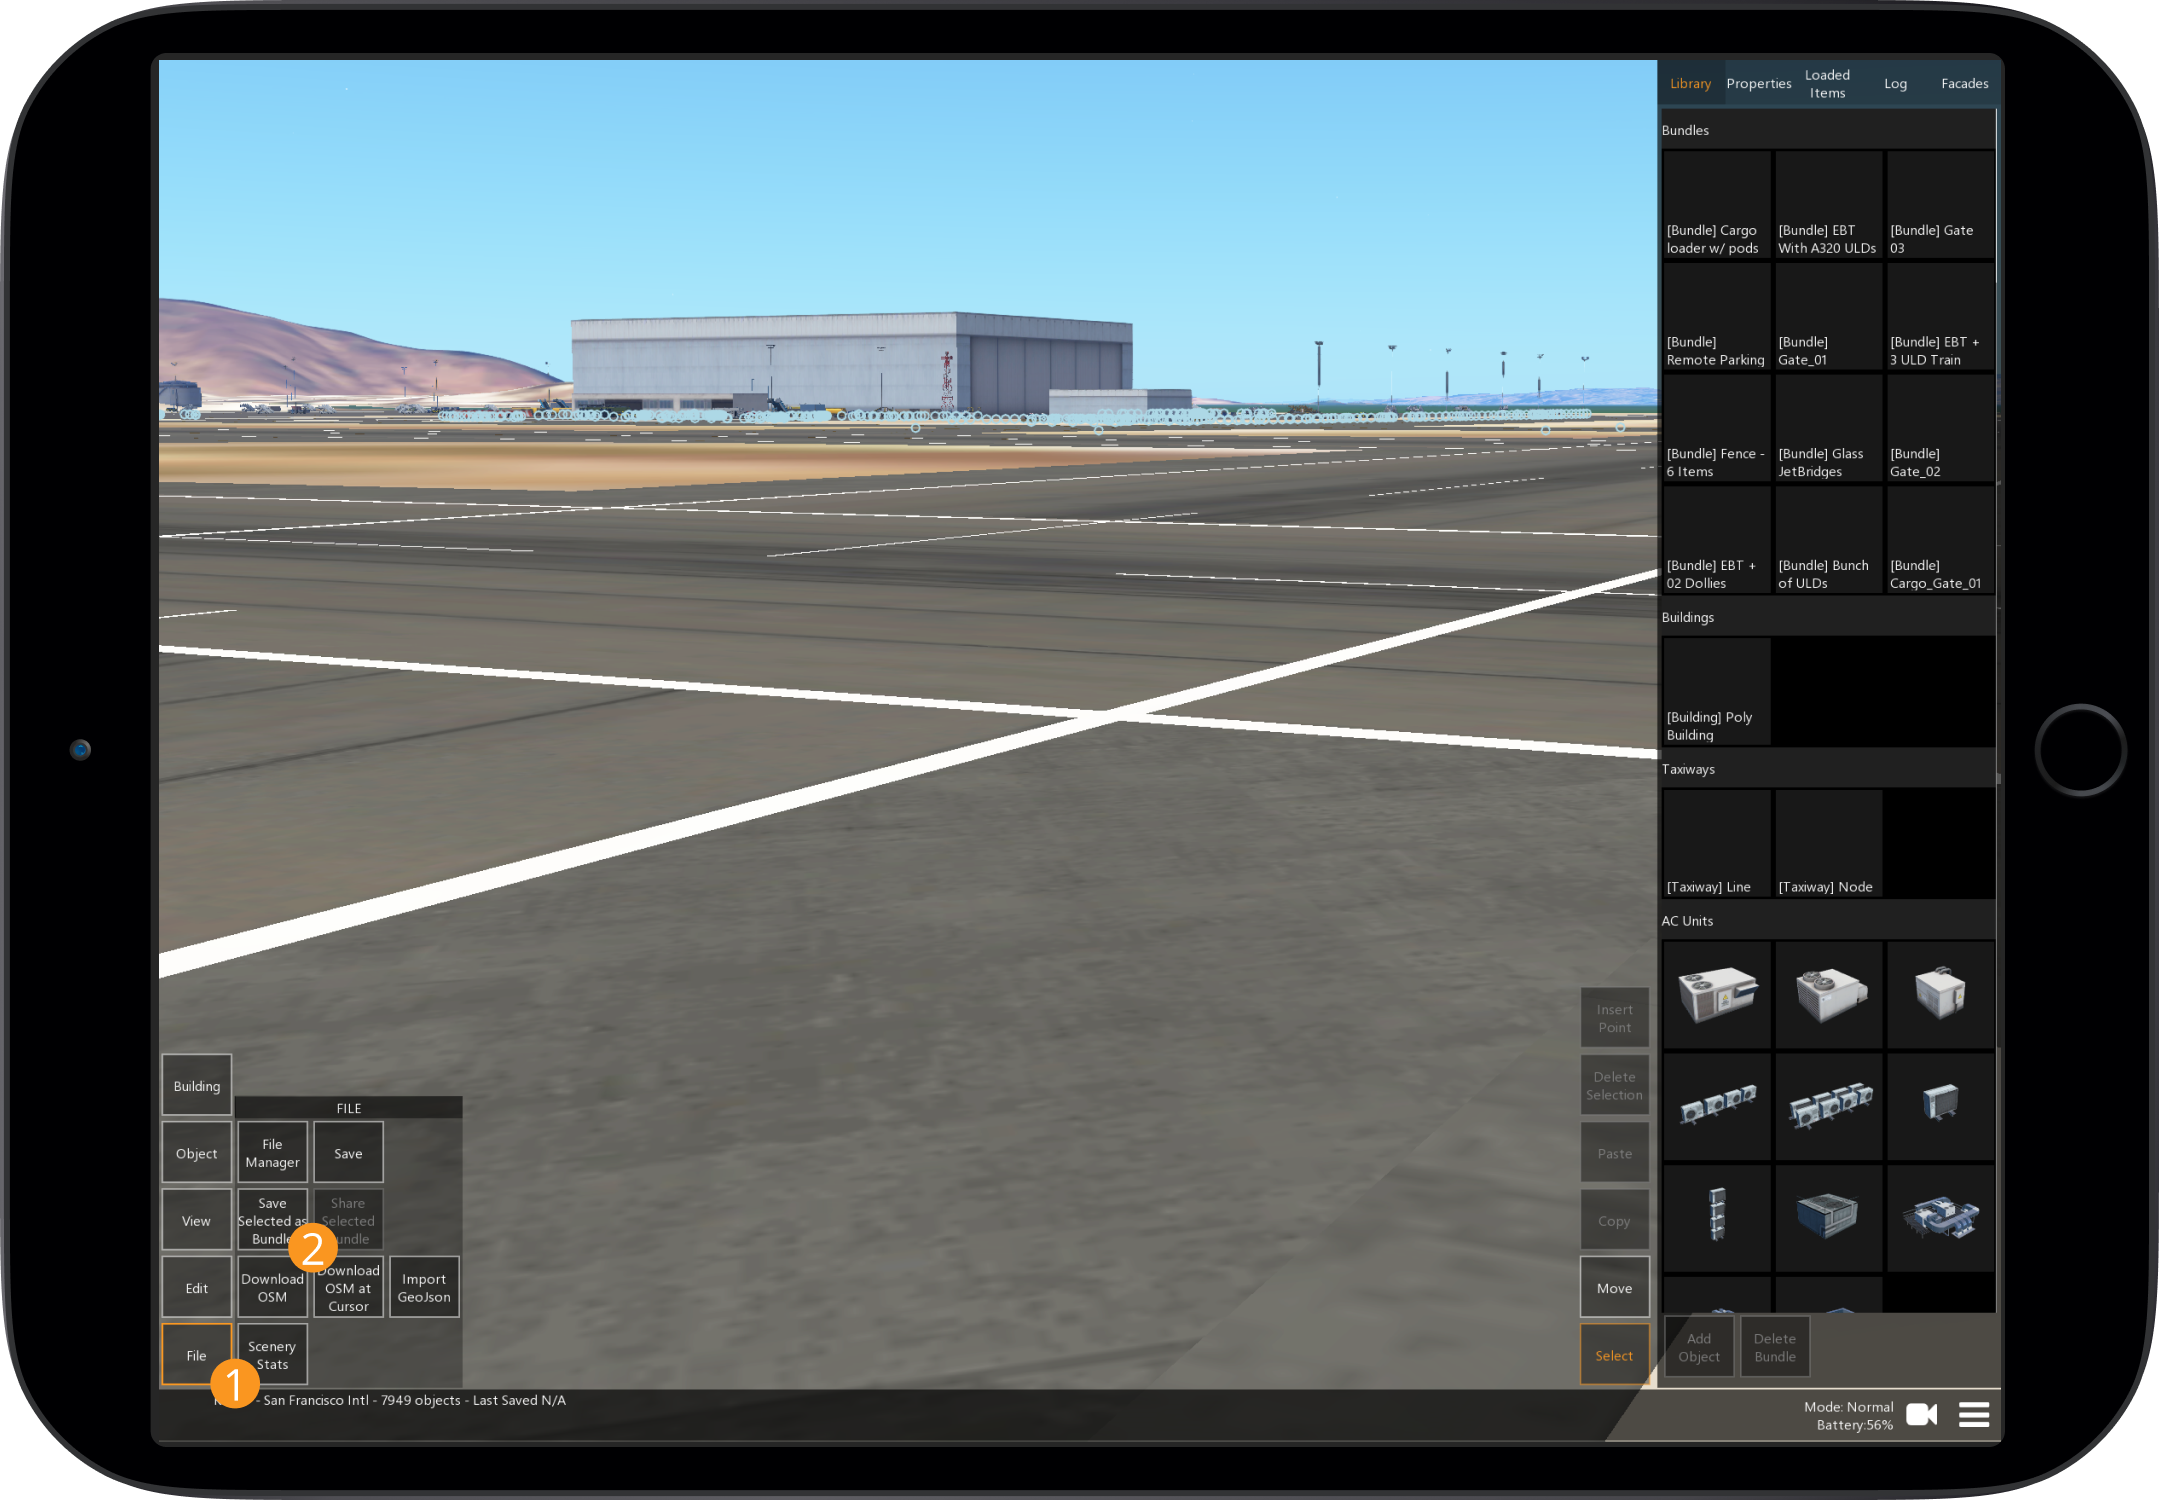
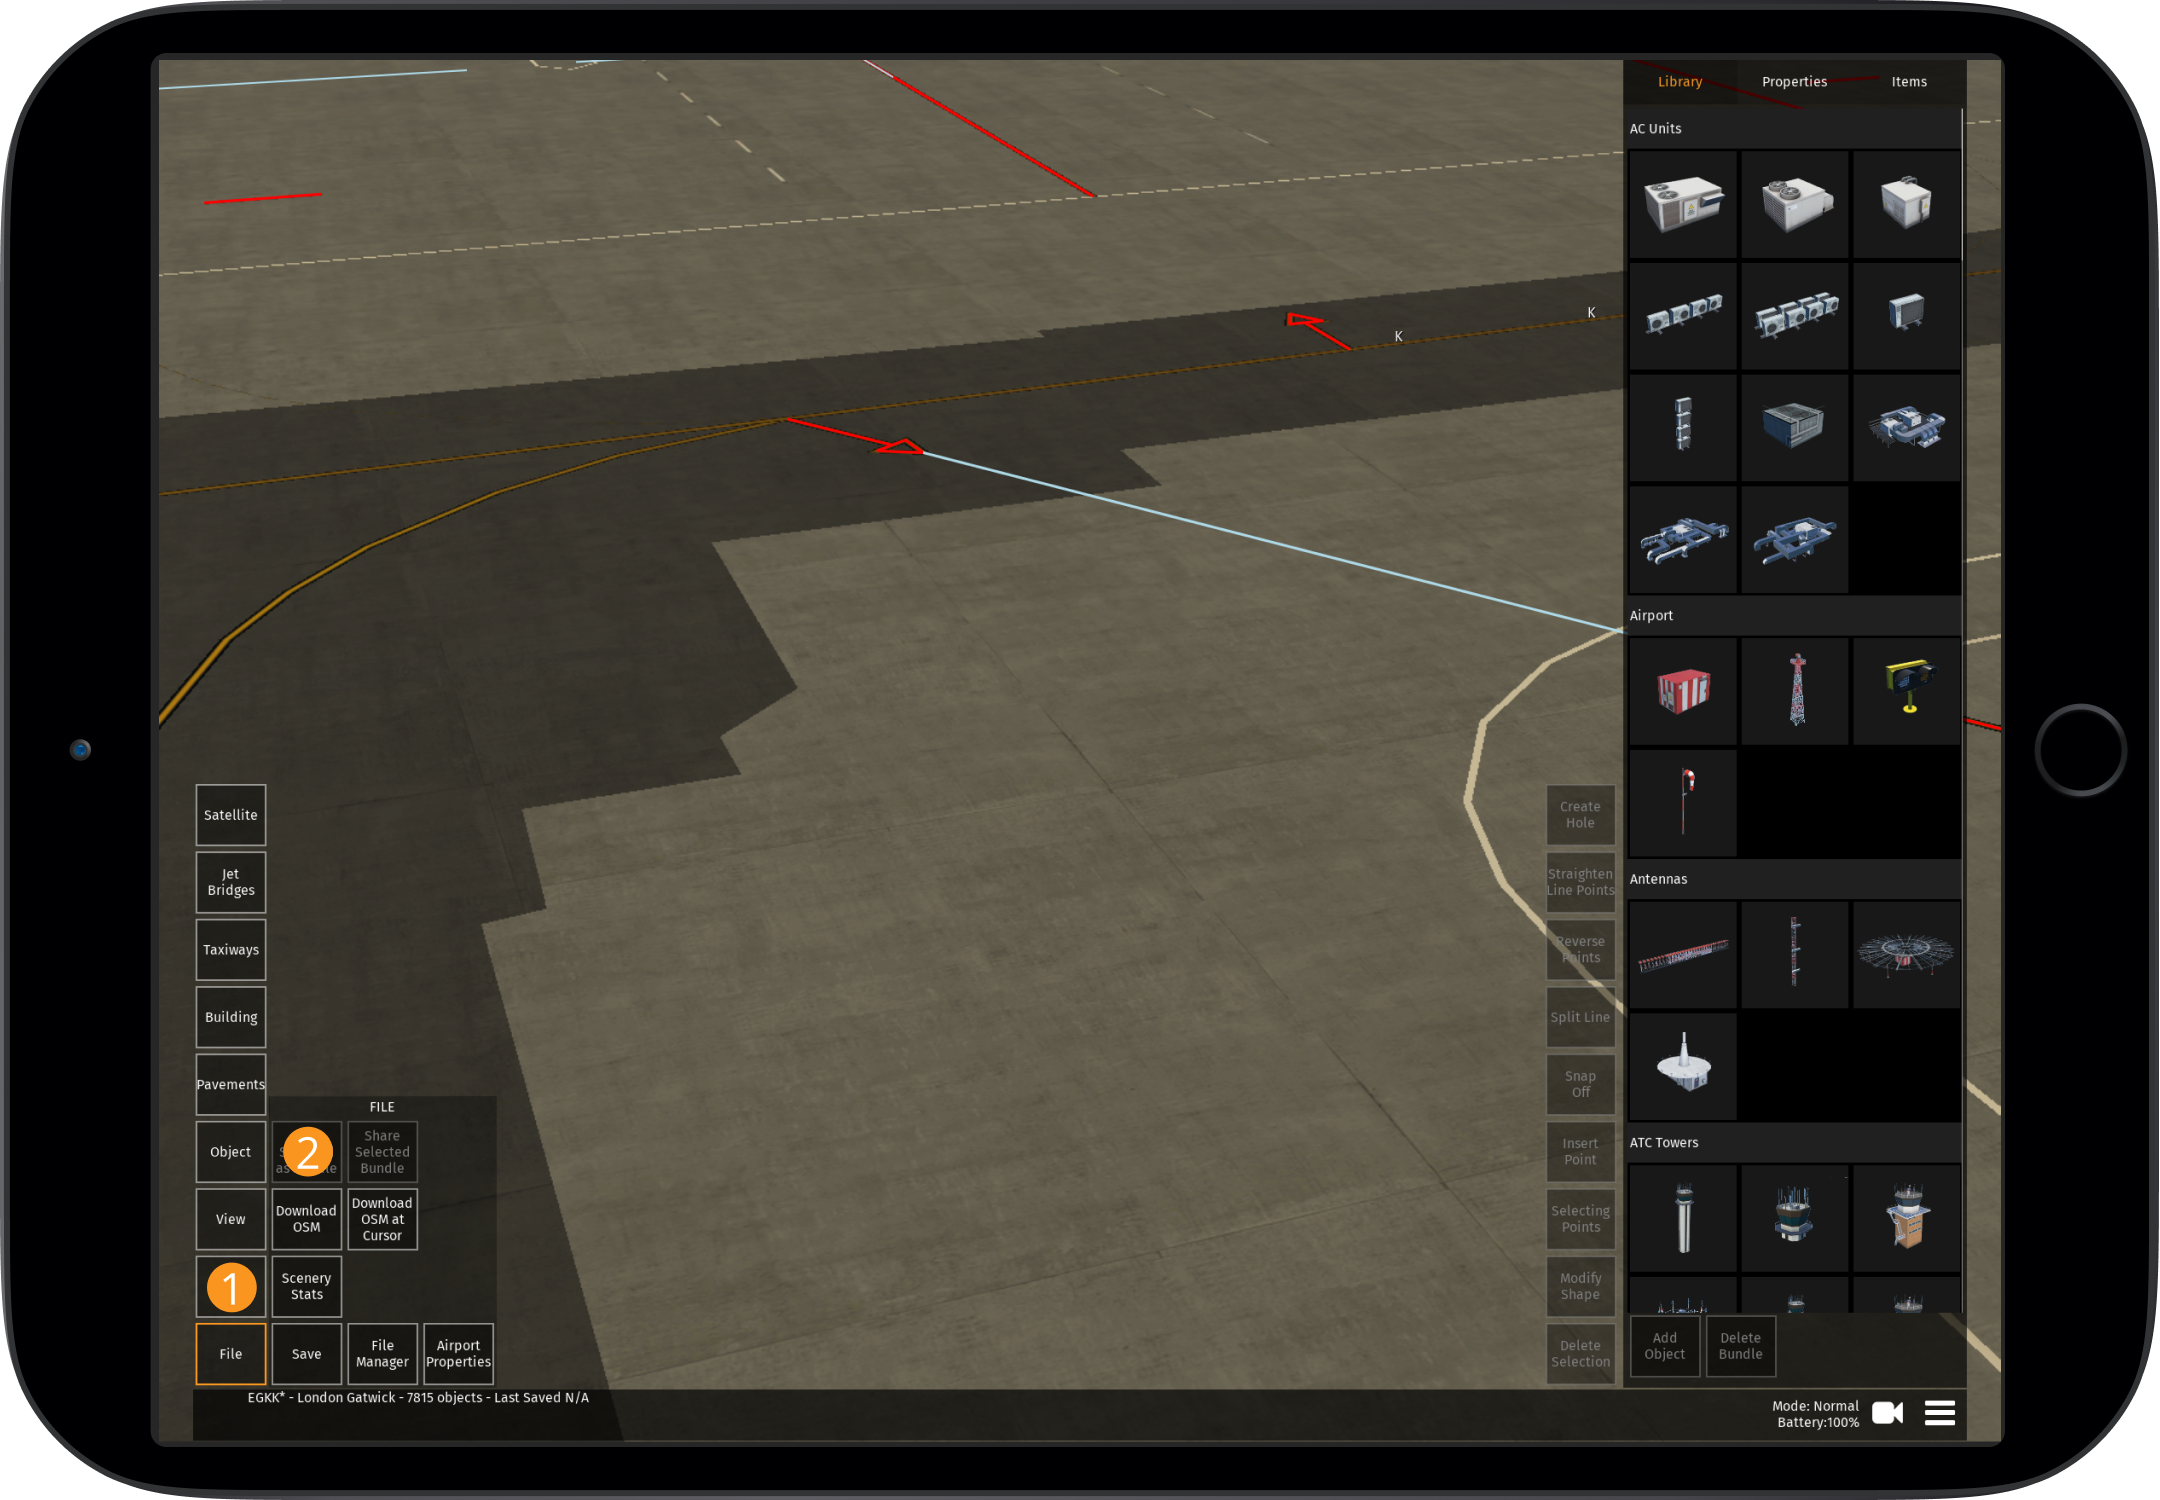
Staging Update
IMPROVED

- [Scenery Editor Manual] updates

diff --git a/scenery-editor-manual/5.-taxiways-and-pavements/5.3-editing-taxiways.md b/scenery-editor-manual/5.-taxiways-and-pavements/5.3-editing-taxiways.md
@@ -11,3 +11,134 @@ order: 3
 
 
 
+Red taxiway lines are invalid - means name is incorrect e.g line 107 etc, means you know which ones are done
+
+
+
+If in properties of taxiway line:
+
+None - not usable for taxiway network
+
+Aircraft - usable for taxiway network
+
+Unknown - ignore
+
+yellow lines will automatically be aircraft, 
+
+
+
+First label all the taxiways the correct name and make sure that they are 
+
+
+
+
+
+Taxiway button, select loads of lines, and then keyboard and then rename them all
+
+
+
+You can use selection add in the edit section to add lines in groups, you can tap again to remove or use the selection remove button
+
+
+
+Freeze Non Taxi Lines to help with selecting lines and freezing 
+
+
+
+Select lines near start and then change to network usage none to remove from the taxiway network (might not be applicable at the airport if they are already out of the network) (check somewhere like LFPG or a bigger airport)
+
+
+
+Then tap select invalid taxilines (stays on regardless of zoom level), this will then show ones in magenta that haven't been done yet
+
+
+
+Can then use the Set as Apron to join up and Apron is not pronucnced between that and start location
+
+
+
+Then finally you might need to go and find the L and R stands and mark the usage as aircraft and then name as apron
+
+
+
+
+
+Build layout
+
+Check Layout then tap each stand to see if it has valid path to the runway
+
+
+
+Red does not have valid path 
+
+Orange can reach hold short line but not runway edge
+
+Green can reach runway edge line
+
+
+
+Remote stands,ou will need taxiway connections
+
+
+
+Create taxiway and roadway, shortcuts to make a line that is assigned a style for taxiway or roadway
+
+Create connection  and set snap to type and freeze non taxi lines
+
+Then tap between the remote stand and the nearest point on the taxiway that is cloest, would make invisible line but allows the commands to send someone to and from the runway to that remote stand
+
+
+
+You can use name but keyboard is easier and keyboard also remembers the last few names done too
+
+Just letters for taxiways, upper case or lower doesn't matter as automatically upper case 
+
+
+
+Auto assign holds button (will automatically name holds per the runway e.g. 09L-27R etc) - needs to be done before building layout
+
+You may need to check each hold after too, except if the two runways start from the same location, brussells, or miami, maybe all runwways if from same place (26L-36L-08-09L etc)
+
+
+
+You can also name the holds as what they are called IRL, such as SATURN or PLUTO etc
+
+
+
+Unfreeze all to unfreeze any freezes (under edit)
+
+
+
+Tap the line
+
+Modify shape
+
+Select point
+
+Split line
+
+
+
+When split line for turn, make sure to do it at the node just as it breaks off, show pictures for this as an example
+
+
+
+Taxiway connections need to be done across runways (straight invicisble line to avoid it making a weird shape with the line up lines)
+
+(Monoray - KMRY)
+
+
+
+75meters buffer between line and start location when invisble line connection not needed but beware that it might do this with the closet point so could do it through a building, therefore best to make sure it is closest otherwise
+
+
+
+Direction
+
+
+
+0 to 40 (forward, the node starting pointing is 0 or low number, and then high, reverse for backward)
+
+But otherwise twoway for all other taxiways
+
+Categories are supported

diff --git a/scenery-editor-manual/1.-introduction/1.2-abbreviations.md b/scenery-editor-manual/1.-introduction/1.2-abbreviations.md
@@ -17,40 +17,21 @@ All abbreviations contained within this manual are listed below with their assoc
 
 | Abbreviation | Definition                                |
 | ------------ | ----------------------------------------- |
-| AAL          | Above Aerodrome Level                     |
-| AGL          | Above Ground Level                        |
 | AIP          | Aeronautical Information Publication      |
-| Alt          | Altitude                                  |
-| ATC          | Air Traffic Control                       |
-| ATIS         | Automatic Terminal Information Service    |
 | CLA          | Contributor License Agreement             |
 | DM           | Direct Message                            |
 | FAA          | Federal Aviation Administration           |
-| FPL          | Flight Plan                               |
-| Ft           | Feet                                      |
-| GMT          | Greenwich Mean Time                       |
-| GPS          | Global Positioning System                 |
 | GA           | General Aviation                          |
 | G/S          | Glideslope                                |
 | ICAO         | International Civil Aviation Organization |
-| IFATC        | Infinite Flight Air Traffic Controllers   |
 | IF           | Infinite Flight                           |
 | IFC          | Infinite Flight Community                 |
-| IMC          | Instrument Meteorological Conditions      |
 | ILS          | Instrument Landing System                 |
 | IRL          | In Real Life                              |
 | LLC          | Limited Liability Company                 |
 | LOC          | Localizer                                 |
-| METAR        | Meteorological Aerodrome Report           |
-| Nm           | Nautical Mile                             |
-| NOTAMS       | Notification to Airmen                    |
-| RET          | Rapid Exit Taxiway                        |
+| OSM          | Open Street Map                           |
 | RWY          | Runway                                    |
 | SFC          | Surface                                   |
-| SID          | Standard Instrument Departure             |
-| STAR         | Standard Terminal Arrival Route           |
-| TAF          | Terminal Aerodrome Forecast               |
-| TWC          | Tailwind Component                        |
 | UFN          | Until Further Notice                      |
-| UTC          | Coordinated Universal Time                |
 | VC / VCs     | Voice Channel / Voice Channels            |

diff --git a/scenery-editor-manual/5.-taxiways-and-pavements/5.1-creating-taxiways-and-pavements.md b/scenery-editor-manual/5.-taxiways-and-pavements/5.1-creating-taxiways-and-pavements.md
@@ -79,6 +79,12 @@ Step 2
 
 
 
+Tip
+
+: If you have only just made the taxiway/pavement then just tap "Modify Shape" to deselect this and the taxiway/pavement will be selected
+
+
+
 Step 3
 
 : Two circles will appear as well as a compass rose. Tap and hold on the circle **(2)** to move the taxiway/pavement or to change orientation:
@@ -146,7 +152,7 @@ Step 2
 
 Step 3
 
-: Tap "Edit" and then "Delete Selection" from the management buttons **(2)** on the left side of the screen 
+: Tap "Delete Selection" from the edit buttons **(2)** on the right side of the screen 
 
 
 
@@ -172,16 +178,21 @@ Step 2
 
 Step 3
 
-: Tap "Modify Shape" and then "Create Hole" from the edit buttons **(2)** on the right side of the screen 
+: Tap "Modify Shape" **(2)** and then "Create Hole" from the edit buttons **(3)** on the right side of the screen 
 
 
 
 Step 4
 
-: Tap in the area of the pavement that you want the hole **(3)**, the first node will be placed
+: Tap in the area of the pavement that you want the hole **(4)**, the first node will be placed
 
 
 
 Step 5
 
-: Continue to tap to add nodes **(4)**, once three or more are placed, a hole will be created and you can continue to add more nodes to create the desired shape
+: Continue to tap to add nodes **(5)**, once three or more are placed, a hole will be created and you can continue to add more nodes to create the desired shape
+
+
+
+![Image 5.1.6.1 - Creating a Hole within the Pavement](_images/manual/frames/5.1.6.1.png)
+

diff --git a/scenery-editor-manual/6.-buildings-and-facades/6.1-selection-and-placement.md b/scenery-editor-manual/6.-buildings-and-facades/6.1-selection-and-placement.md
@@ -47,16 +47,23 @@ Step 1
 
 
 
+Tip
+
+: If you have only just made the taxiway/pavement then just tap "Modify Shape" to deselect this and the taxiway/pavement will be selected
+
+
+
 Step 2
 
-: Two circles will appear as well as a compass rose. Tap and hold on the circle **(1)** to move the building or to change orientation:
+: Three circles will appear as well as a compass rose. Tap and hold on the circle **(1)** to move the building or to change orientation:
 
 
 
-| Circle | Function                                                     |
-| ------ | ------------------------------------------------------------ |
-| Center | Will move the building by dragging your finger to the desired location |
-| Outer  | Will change the orientation of the building by dragging your finger in the direction you want to orientate it to |
+| Circle                         | Function                                                     |
+| ------------------------------ | ------------------------------------------------------------ |
+| Center                         | Will move the building by dragging your finger to the desired location |
+| Top (just above center circle) | Will adjust the elevation or altitude of the building        |
+| Outer                          | Will change the orientation of the building by dragging your finger in the direction you want to orientate it to |
 
 
 

diff --git a/scenery-editor-manual/7.-objects/7.2-selection-and-placement.md b/scenery-editor-manual/7.-objects/7.2-selection-and-placement.md
@@ -86,14 +86,15 @@ Step 2
 
 Step 3
 
-: Two circles will appear as well as a compass rose. Tap and hold on the circle **(1)** to move the object or to change orientation:
+: Three circles will appear as well as a compass rose. Tap and hold on the circle **(1)** to move the object or to change orientation:
 
 
 
-| Circle | Function                                                     |
-| ------ | ------------------------------------------------------------ |
-| Center | Will move the object by dragging your finger to the desired location |
-| Outer  | Will change the orientation of the object by dragging your finger in the direction you want to orientate it to |
+| Circle                         | Function                                                     |
+| ------------------------------ | ------------------------------------------------------------ |
+| Center                         | Will move the object by dragging your finger to the desired location |
+| Top (just above center circle) | Will adjust the elevation or altitude of the object          |
+| Outer                          | Will change the orientation of the object by dragging your finger in the direction you want to orientate it to |
 
 
 

diff --git a/scenery-editor-manual/3.-getting-started/3.2-aircraft-categories.md b/scenery-editor-manual/3.-getting-started/3.2-aircraft-categories.md
@@ -32,7 +32,7 @@ The following table outlines what aircraft within Infinite Flight fall into each
 | ----------------- | ------------------------------------------------------------ |
 | A                 | C172, SR22, F-14, F-16, F/A-18, F-22, Spitfire, TBM-930, XCub |
 | B                 | A-10, C208, Citation X, CRJ, P-38                            |
-| C                 | A318/319/320/321, B717, B737, Dash-8 Q400, E170/175/190/195  |
+| C                 | A220, A318/319/320/321, B717, B737, Dash-8 Q400, E170/175/190/195 |
 | D                 | B757, B767, C-17, C-130, MD-11, DC-10                        |
 | E                 | A330, A340, A350, B747-200/400, B777, B787                   |
 | F                 | A380, B747-8                                                 |

diff --git a/scenery-editor-manual/index.md b/scenery-editor-manual/index.md
@@ -16,17 +16,17 @@ Welcome to the Scenery Editor Manual, designed to help newly qualified and veter
 
 
 
-## Scenery Editor Manual Version (Internal): 22.1.0.1
+## Scenery Editor Manual Version (Internal): 22.1.0.3
 
-## Last Updated: 1930Z - 11 JAN 22
+## Last Updated: 1200Z - 13 JAN 22
 
 
 
-+++ Summary of Changes - Version: 22.1.0.1 (CURRENT VERSION)
++++ Summary of Changes - Version: 22.1.0.3 (CURRENT VERSION)
 
-| Location      | Change        |
-| ------------- | ------------- |
-| Initial Issue | Initial Issue |
+| Location | Change        |
+| -------- | ------------- |
+| All      | Initial Issue |
 
 +++
 

diff --git a/scenery-editor-manual/5.-taxiways-and-pavements/5.4-editing-pavements.md b/scenery-editor-manual/5.-taxiways-and-pavements/5.4-editing-pavements.md
@@ -11,4 +11,3 @@ order: 4
 
 
 
-Coming Soon
